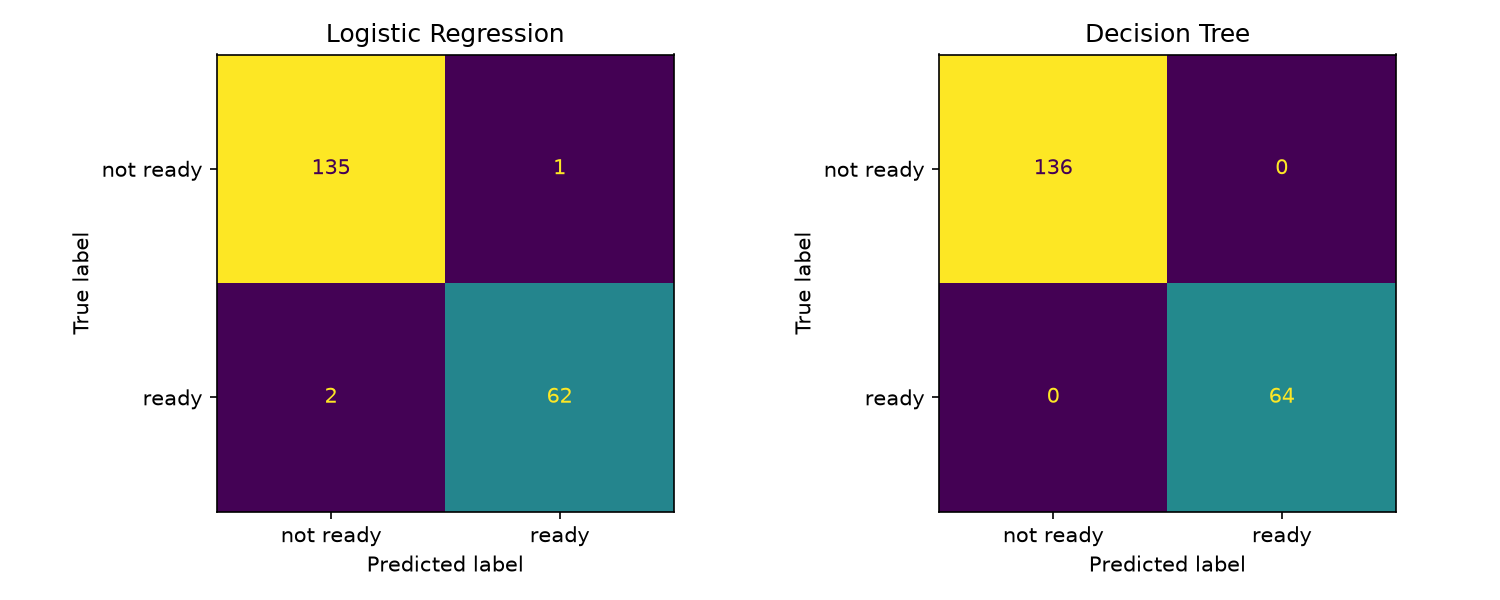
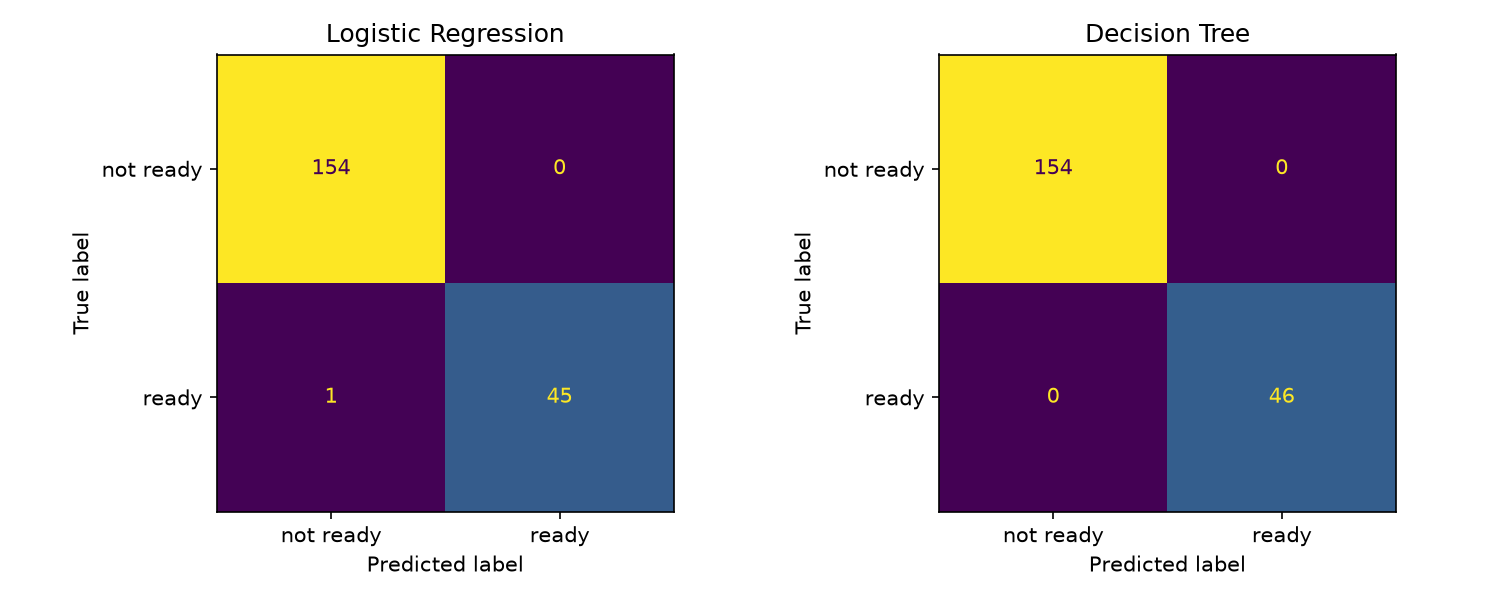
Label now based on readiness score formula

diff --git a/app.py b/app.py
@@ -5,7 +5,8 @@ Run:  streamlit run app.py
 import pandas as pd
 import streamlit as st
 
-from train import FEATURES, build_and_train
+from train import (FEATURES, MIN_CGPA, READY_CUTOFF, build_and_train,
+                   readiness_score)
 
 st.set_page_config(page_title="Placement Readiness Predictor")
 
@@ -19,8 +20,8 @@ def get_models():
 df, models = get_models()
 
 st.title("Placement Readiness Predictor")
-st.caption("Label is rule-based (CGPA of 7 or more and at most 1 backlog). "
-           "A demo of the ML pipeline, not real placement advice.")
+st.caption("The label comes from a hand-made readiness score, not from real "
+           "placement outcomes. A demo of the ML pipeline, not placement advice.")
 
 left, right = st.columns(2)
 with left:
@@ -43,10 +44,15 @@ if st.button("Predict", type="primary"):
     else:
         st.error(f"Not ready yet ({prob:.0%} probability of being ready)")
 
-    reasons = []
-    reasons.append(f"CGPA {cgpa:.2f} is "
-                   + ("at or above" if cgpa >= 7 else "below") + " the 7.0 cutoff")
-    reasons.append(f"{backlogs} backlog(s) is "
-                   + ("within" if backlogs in ["0", "1"] else "over")
-                   + " the limit of 1")
-    st.write("Why: " + "; ".join(reasons) + ".")
+    score = readiness_score(cgpa, backlogs)
+    st.metric("Readiness score (formula)", f"{score:.0f} / 100",
+              help=f"Ready means a score of {READY_CUTOFF} or more.")
+    if cgpa < MIN_CGPA:
+        st.write(f"Why: CGPA {cgpa:.2f} is below the minimum of {MIN_CGPA}.")
+    elif backlogs not in ["0", "1"]:
+        st.write(f"Why: {backlogs} backlogs is over the limit of 1.")
+    else:
+        side = "reaches" if score >= READY_CUTOFF else "falls short of"
+        st.write(f"Why: eligible, and the score of {score:.0f} {side} the "
+                 f"cutoff of {READY_CUTOFF}. One backlog costs 15 points, "
+                 "so it needs a higher CGPA to make up for it.")

diff --git a/train.py b/train.py
@@ -30,9 +30,22 @@ CATEGORICAL = ["backlogs", "course", "branch"]
 FEATURES = NUMERIC + CATEGORICAL
 TARGET = "ready"
 
-# The readiness rule (see DECISIONS.md, decision 1).
-CGPA_CUTOFF = 7.0
-ALLOWED_BACKLOGS = ["0", "1"]
+# The readiness formula (see DECISIONS.md, decisions 1 and 7).
+MIN_CGPA = 7.0             # below this, not eligible at all
+MAX_BACKLOGS = 1           # more than this, not eligible at all
+BASE_SCORE = 60            # score of an eligible student at exactly CGPA 7
+CGPA_POINTS = 40           # extra points earned going from CGPA 7 to 10
+BACKLOG_PENALTY = 15       # points lost for having one backlog
+READY_CUTOFF = 65          # ready if the score reaches this
+
+
+def readiness_score(cgpa, backlogs):
+    """Hand-made readiness score from 0 to 100. Not a real probability."""
+    if cgpa < MIN_CGPA or backlogs not in ["0", "1"]:
+        return 0.0
+    score = (BASE_SCORE + (cgpa - MIN_CGPA) / (10 - MIN_CGPA) * CGPA_POINTS
+             - BACKLOG_PENALTY * int(backlogs))
+    return round(score, 2)
 
 
 def load_and_clean(path=DATA_PATH):
@@ -61,8 +74,10 @@ def load_and_clean(path=DATA_PATH):
     df = df.drop(columns=["name", "email", "other_course", "gender", "year"])
 
     # The dataset has NO target column, so we define one with a clear rule.
-    df[TARGET] = ((df["cgpa"] >= CGPA_CUTOFF)
-                  & (df["backlogs"].isin(ALLOWED_BACKLOGS))).astype(int)
+    # Each student gets a score from the formula, and "ready" means the
+    # score reaches the cutoff. The score itself is NOT given to the model.
+    scores = [readiness_score(c, b) for c, b in zip(df["cgpa"], df["backlogs"])]
+    df[TARGET] = (pd.Series(scores) >= READY_CUTOFF).astype(int)
     return df
 
 

diff --git a/README.md b/README.md
@@ -4,8 +4,8 @@ GDG-USAR Tech Team task (AI/ML domain). A binary classifier that labels a
 student "ready" or "not ready" for placement, with a small Streamlit interface.
 
 > **Read this first:** the provided dataset has no target column. The label
-> is defined by a rule (CGPA of 7.0 or more and at most 1 backlog), so the
-> models relearn that rule. See [DECISIONS.md](DECISIONS.md).
+> comes from a hand-made readiness score built on CGPA and backlogs, so the
+> models relearn that formula. See [DECISIONS.md](DECISIONS.md).
 
 **Live demo:** https://placement-readiness-predictor-6jc2jkcyof26uvyksymbfq.streamlit.app/
 
@@ -23,37 +23,51 @@ streamlit run app.py     # input interface
 
 1. **Clean:** remove 9,000 exact duplicate rows (1,000 unique students left),
    fill blank `backlogs` as "0", drop identifier columns.
-2. **Label:** `ready` = CGPA >= 7.0 and backlogs in {0, 1}.
+2. **Label:** each student gets a readiness score (below), and `ready`
+   means a score of 65 or more. About 23% of students are ready.
 3. **Features:** `cgpa`, `age`, `backlogs`, `course`, `branch`.
 4. **Split:** 80/20, stratified, before any preprocessing.
 5. **Preprocess:** scale numbers, one-hot encode categories, inside a
    scikit-learn `Pipeline` so nothing is fitted on test data.
 6. **Models:** majority-class baseline, Logistic Regression, Decision Tree.
 
+## Readiness score
+
+| Case                                   | Score                                    |
+| -------------------------------------- | ---------------------------------------- |
+| CGPA below 7.0, or more than 1 backlog | 0 (not eligible)                         |
+| Otherwise                              | 60 + (CGPA - 7) / 3 x 40 - 15 x backlogs |
+
+Ready means a score of 65 or more. In practice: CGPA 7.38 or more with no
+backlogs, or CGPA 8.5 or more with one backlog. The weights (60, 40, 15) and
+the cutoff (65) were chosen by judgement. The score is not a probability of
+being placed, and it is never shown to the model as a feature.
+
 ## Results (test set, 200 students, "ready" class)
 
 | Model                         | Precision | Recall | F1    |
 | ----------------------------- | --------- | ------ | ----- |
 | Baseline (always "not ready") | 0.000     | 0.000  | 0.000 |
-| Logistic Regression           | 0.984     | 0.969  | 0.976 |
+| Logistic Regression           | 1.000     | 0.978  | 0.989 |
 | Decision Tree (max depth 4)   | 1.000     | 1.000  | 1.000 |
 
-**Why the tree wins:** the label is two hard cutoffs. A tree splits on exactly
-such cutoffs, so it recovers the rule. Logistic Regression draws one smooth
-boundary, so it is unsure about students near CGPA 7.0.
+**Why the tree wins:** the label is a set of hard cutoffs (CGPA 7.38 with no
+backlogs, CGPA 8.5 with one). A tree splits on exactly such cutoffs, so it
+recovers them. Logistic Regression draws one smooth boundary, so it missed
+one ready student who sits close to a cutoff.
 
 ![Confusion matrices](confusion_matrices.png)
 
 ## Example prediction
 
-Student: CGPA 6.65, 0 backlogs, M.Tech, Electrical, age 26.
-True label: not ready (CGPA is below 7.0).
+Student: CGPA 7.08, 1 backlog, B.Tech, IT, age 30.
+Score: 60 + 1.07 - 15 = 46, below the cutoff of 65. True label: not ready.
 
 - Decision Tree: 0% ready. Correct.
-- Logistic Regression: 50.1% ready, so it predicts "ready". Wrong, by a
-  hair: having no backlogs pushes strongly towards "ready" (+4.17) and the
-  CGPA pushes back (-2.04). This is the kind of borderline student a smooth
-  boundary gets wrong and a tree gets right.
+- Logistic Regression: 3% ready. Correct. Being in the "1 backlog" group
+  pushes towards ready (+2.11) because that group is at least eligible,
+  unlike 2 or 3+, but the low CGPA pushes back (-1.28) and the model's
+  starting point is already well below 50%.
 
 ## Feature importance
 
@@ -61,11 +75,11 @@ Shuffling a column and measuring the drop in F1 (Decision Tree):
 
 | Feature             | Drop in F1 |
 | ------------------- | ---------- |
-| backlogs            | 0.503      |
-| cgpa                | 0.406      |
+| cgpa                | 0.566      |
+| backlogs            | 0.549      |
 | course, branch, age | 0.000      |
 
-The model uses only the two columns the rule is built on, as expected.
+The model uses only the two columns the formula is built on, as expected.
 
 ![Feature importance](feature_importance.png)
 

diff --git a/DECISIONS.md b/DECISIONS.md
@@ -8,8 +8,9 @@ The provided file has 10 columns (`name`, `email`, `gender`, `age`, `course`,
 `other_course`, `branch`, `year`, `cgpa`, `backlogs`). None of them says
 whether a student is placement ready, so there was nothing to train on.
 
-**Change:** a label `ready` was defined as CGPA of 7.0 or more **and** at most
-1 backlog. This marks about 32% of students as ready.
+**Change:** a label `ready` was first defined as CGPA of 7.0 or more **and**
+at most 1 backlog (about 32% of students). This was later replaced by a
+score formula, see decision 7.
 
 **Consequence:** the models are relearning a rule that was written by hand.
 The high scores show that the pipeline works, not that placement readiness can
@@ -28,8 +29,8 @@ data at all.
 | Duplicates removed | 0.961 |
 
 **Change:** duplicates are dropped before the split. The lower score is the
-honest one. (Both figures are from the first feature set, which still
-included `year`.)
+honest one. (Both figures are from the first version: the simple rule label,
+with `year` still a feature.)
 
 ## 3. Blank `backlogs` treated as "0", not as missing
 
@@ -45,8 +46,8 @@ kept as its own category instead of being imputed or dropped.
 
 ## 5. Why F1, precision and recall instead of accuracy
 
-Only about 32% of students are ready. A model that always answers "not ready"
-gets 68% accuracy while finding zero ready students (F1 = 0), which is what
+Only about 23% of students are ready. A model that always answers "not ready"
+gets 77% accuracy while finding zero ready students (F1 = 0), which is what
 the baseline row in the results shows.
 
 ## 6. Change: `year` removed from the features and the app
@@ -56,6 +57,28 @@ because readiness, as defined here, is about academic standing (CGPA and
 backlogs), and the year a student is in does not change that. The importance
 check agreed: shuffling `year` changed F1 by 0.000.
 
-Effect on the test set: Logistic Regression F1 went from 0.961 to 0.976, and
-the Decision Tree stayed at 1.000. One fewer noise column gave the linear
+Effect on the test set (with the simple rule label of decision 1): Logistic
+Regression F1 went from 0.961 to 0.976, and the Decision Tree stayed at 1.000. One fewer noise column gave the linear
 model slightly less to be confused by.
+
+## 7. Change: label now comes from a readiness score, not a flat rule
+
+The flat rule treated a student with CGPA 7.0 and one backlog the same as a
+student with CGPA 9.5 and none. A score lets the two features trade off.
+
+- Not eligible (CGPA below 7.0, or more than 1 backlog): score 0.
+- Eligible: score = 60 + (CGPA - 7) / 3 x 40 - 15 x backlogs.
+- Ready = score of 65 or more.
+
+This works out to CGPA 7.38 or more with no backlogs, or CGPA 8.5 or more
+with one backlog. Ready students dropped from about 32% to about 23%.
+
+**The weights are a judgement call.** 60, 40, 15 and 65 are not derived from
+data, because the data has no placement outcomes to derive them from.
+
+**Rejected alternative:** predicting the score itself. That is regression, and
+the task asks for binary classification.
+
+Effect on the test set: Logistic Regression F1 is 0.989 (it misses one ready
+student out of 46), and the Decision Tree is still 1.000. The label is still
+deterministic, so high scores are still expected.
